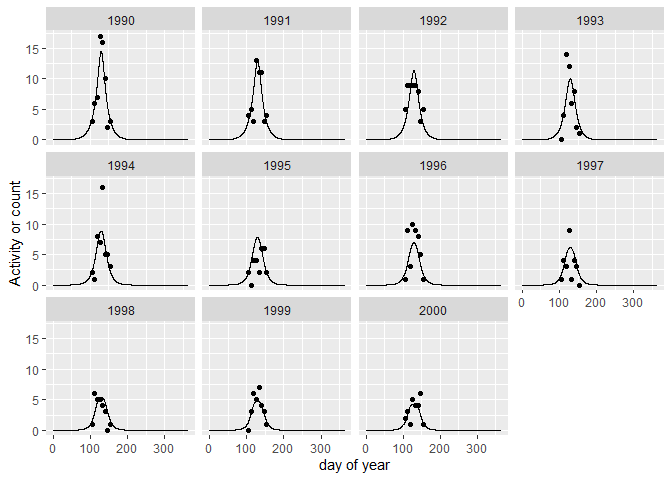
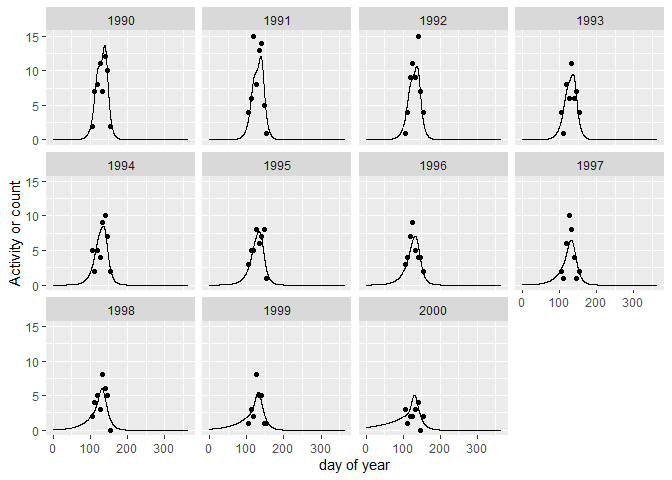
Updated package to handle exponential growth/decline WITH variability

diff --git a/README.md b/README.md
@@ -24,6 +24,10 @@ steps (which are by far the most time-consuming). The optional
 initiate parallel processing. At default (`nthreads = NULL`), code will
 continue to use serial processing as before.
 
+As of 10/12/23, **butterflyGamSims** now supports populations with
+exponential growth / decline *and* lognormal stochasticity (implemented
+as process error).
+
 ### Motivation
 
 In ecology and in conservation biology, understanding the population
@@ -128,10 +132,10 @@ estimated trends.
 Because **butterflyGamSims** necessarily simulates butterfly time series
 data, the time-series simulation function `timeseries_sim()` may be
 helpful for other projects (IE simulated data for teaching/training,
-other methods-testing projects). Note that `timeseries_sim()` returns a
-set of simulated time series; depending on your needs,`timeseries_gen()`
-(which saves the time-series to a .csv file instead) may be more
-helpful.
+testing monitoring schemes or other analysis methods). Note that
+`timeseries_sim()` returns a set of simulated time series; depending on
+your needs,`timeseries_gen()` (which saves the time-series to a .csv
+file instead) may be more helpful.
 
 For visualizing simulated time-series and associated fitted GAM models,
 `timeseries_examples()` and `fit_plotter()` may be helpful. As a simple
